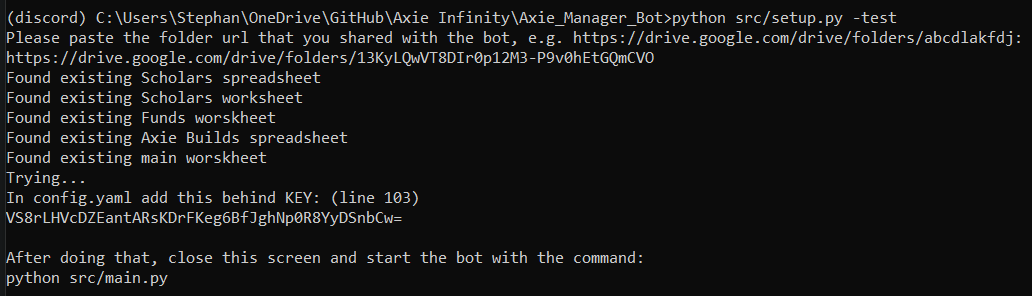
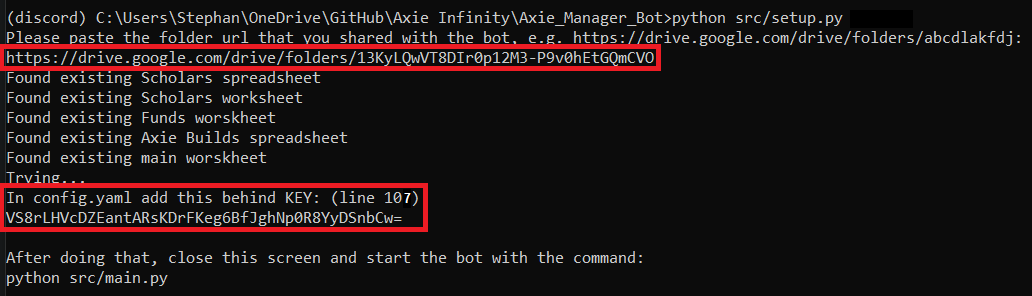
Improved instructions

Changed region(s): [[0.0, 0.1216, 0.6512, 0.2432], [0.0, 0.6081, 0.4341, 0.7905], [0.8372, 0.0304, 0.8682, 0.0912]]

diff --git a/src/setup.py b/src/setup.py
@@ -156,7 +156,7 @@ async def on_ready():
     os.rename("config_example.yaml", "config.yaml")
 
     # Print this to the console
-    print("In config.yaml add this behind KEY: (line 103)")
+    print("In config.yaml add this behind KEY: (line 107)")
     print(str(Fernet.generate_key())[2:-1])
     print()
     print("After doing that, close this screen and start the bot with the command:")
